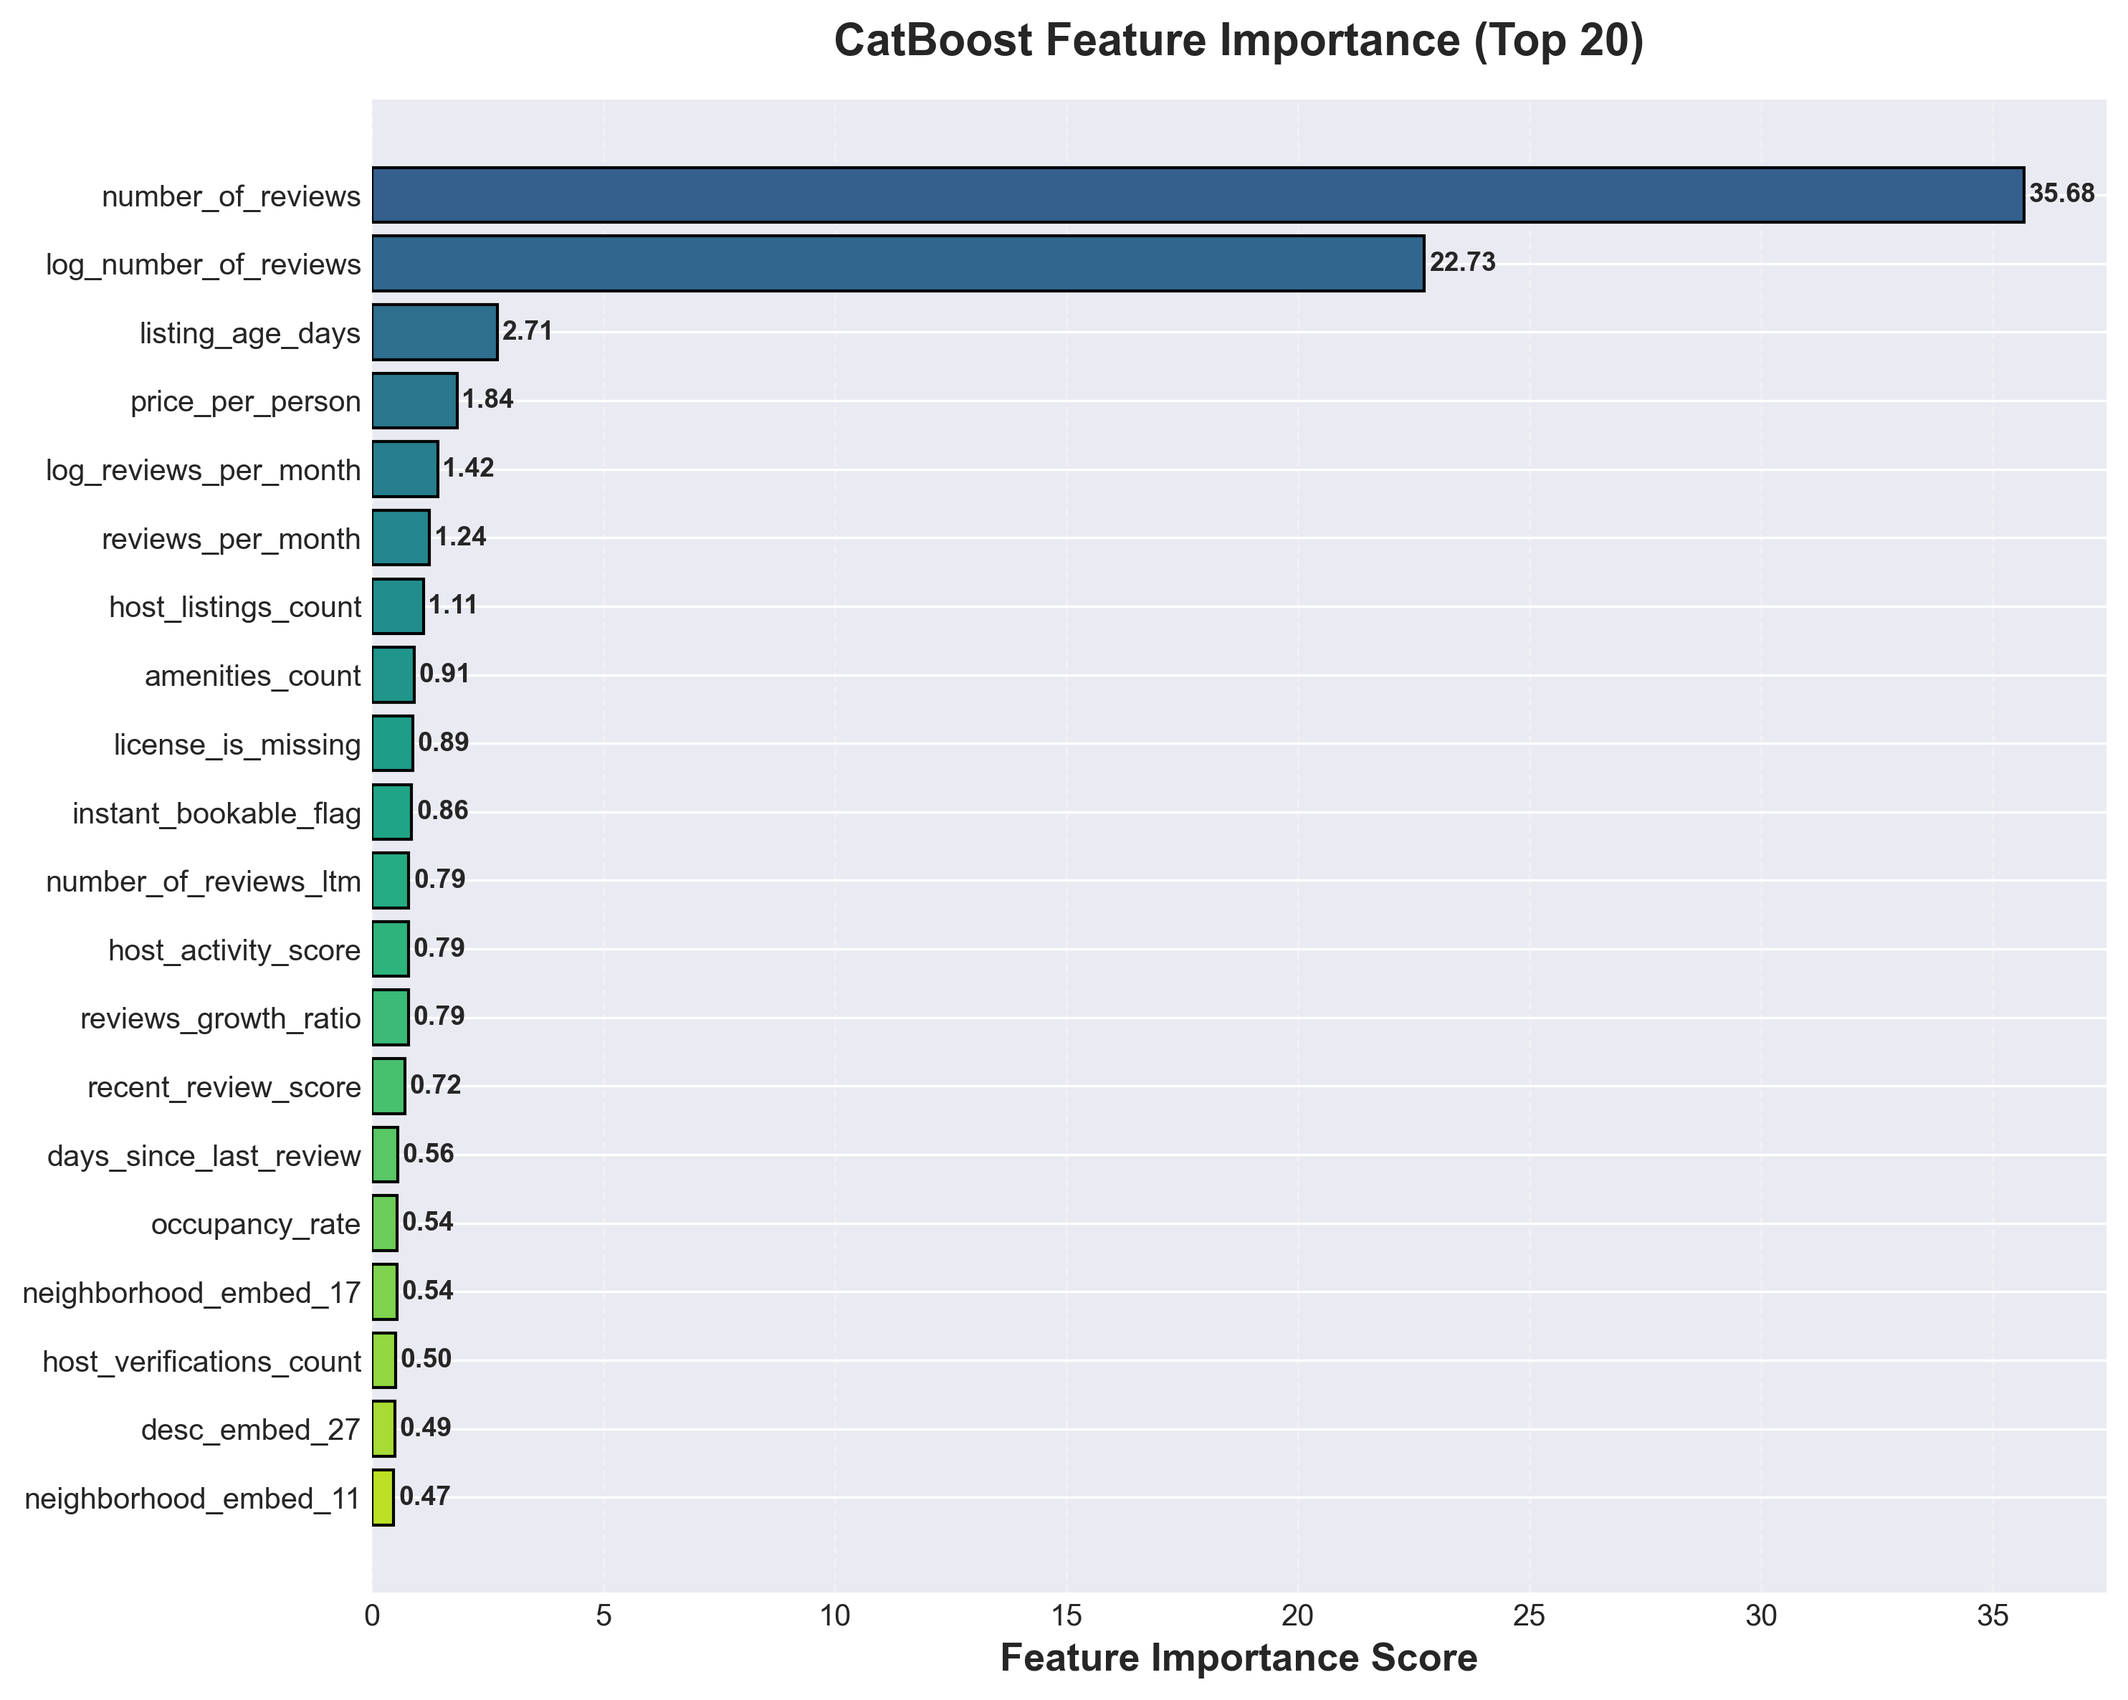
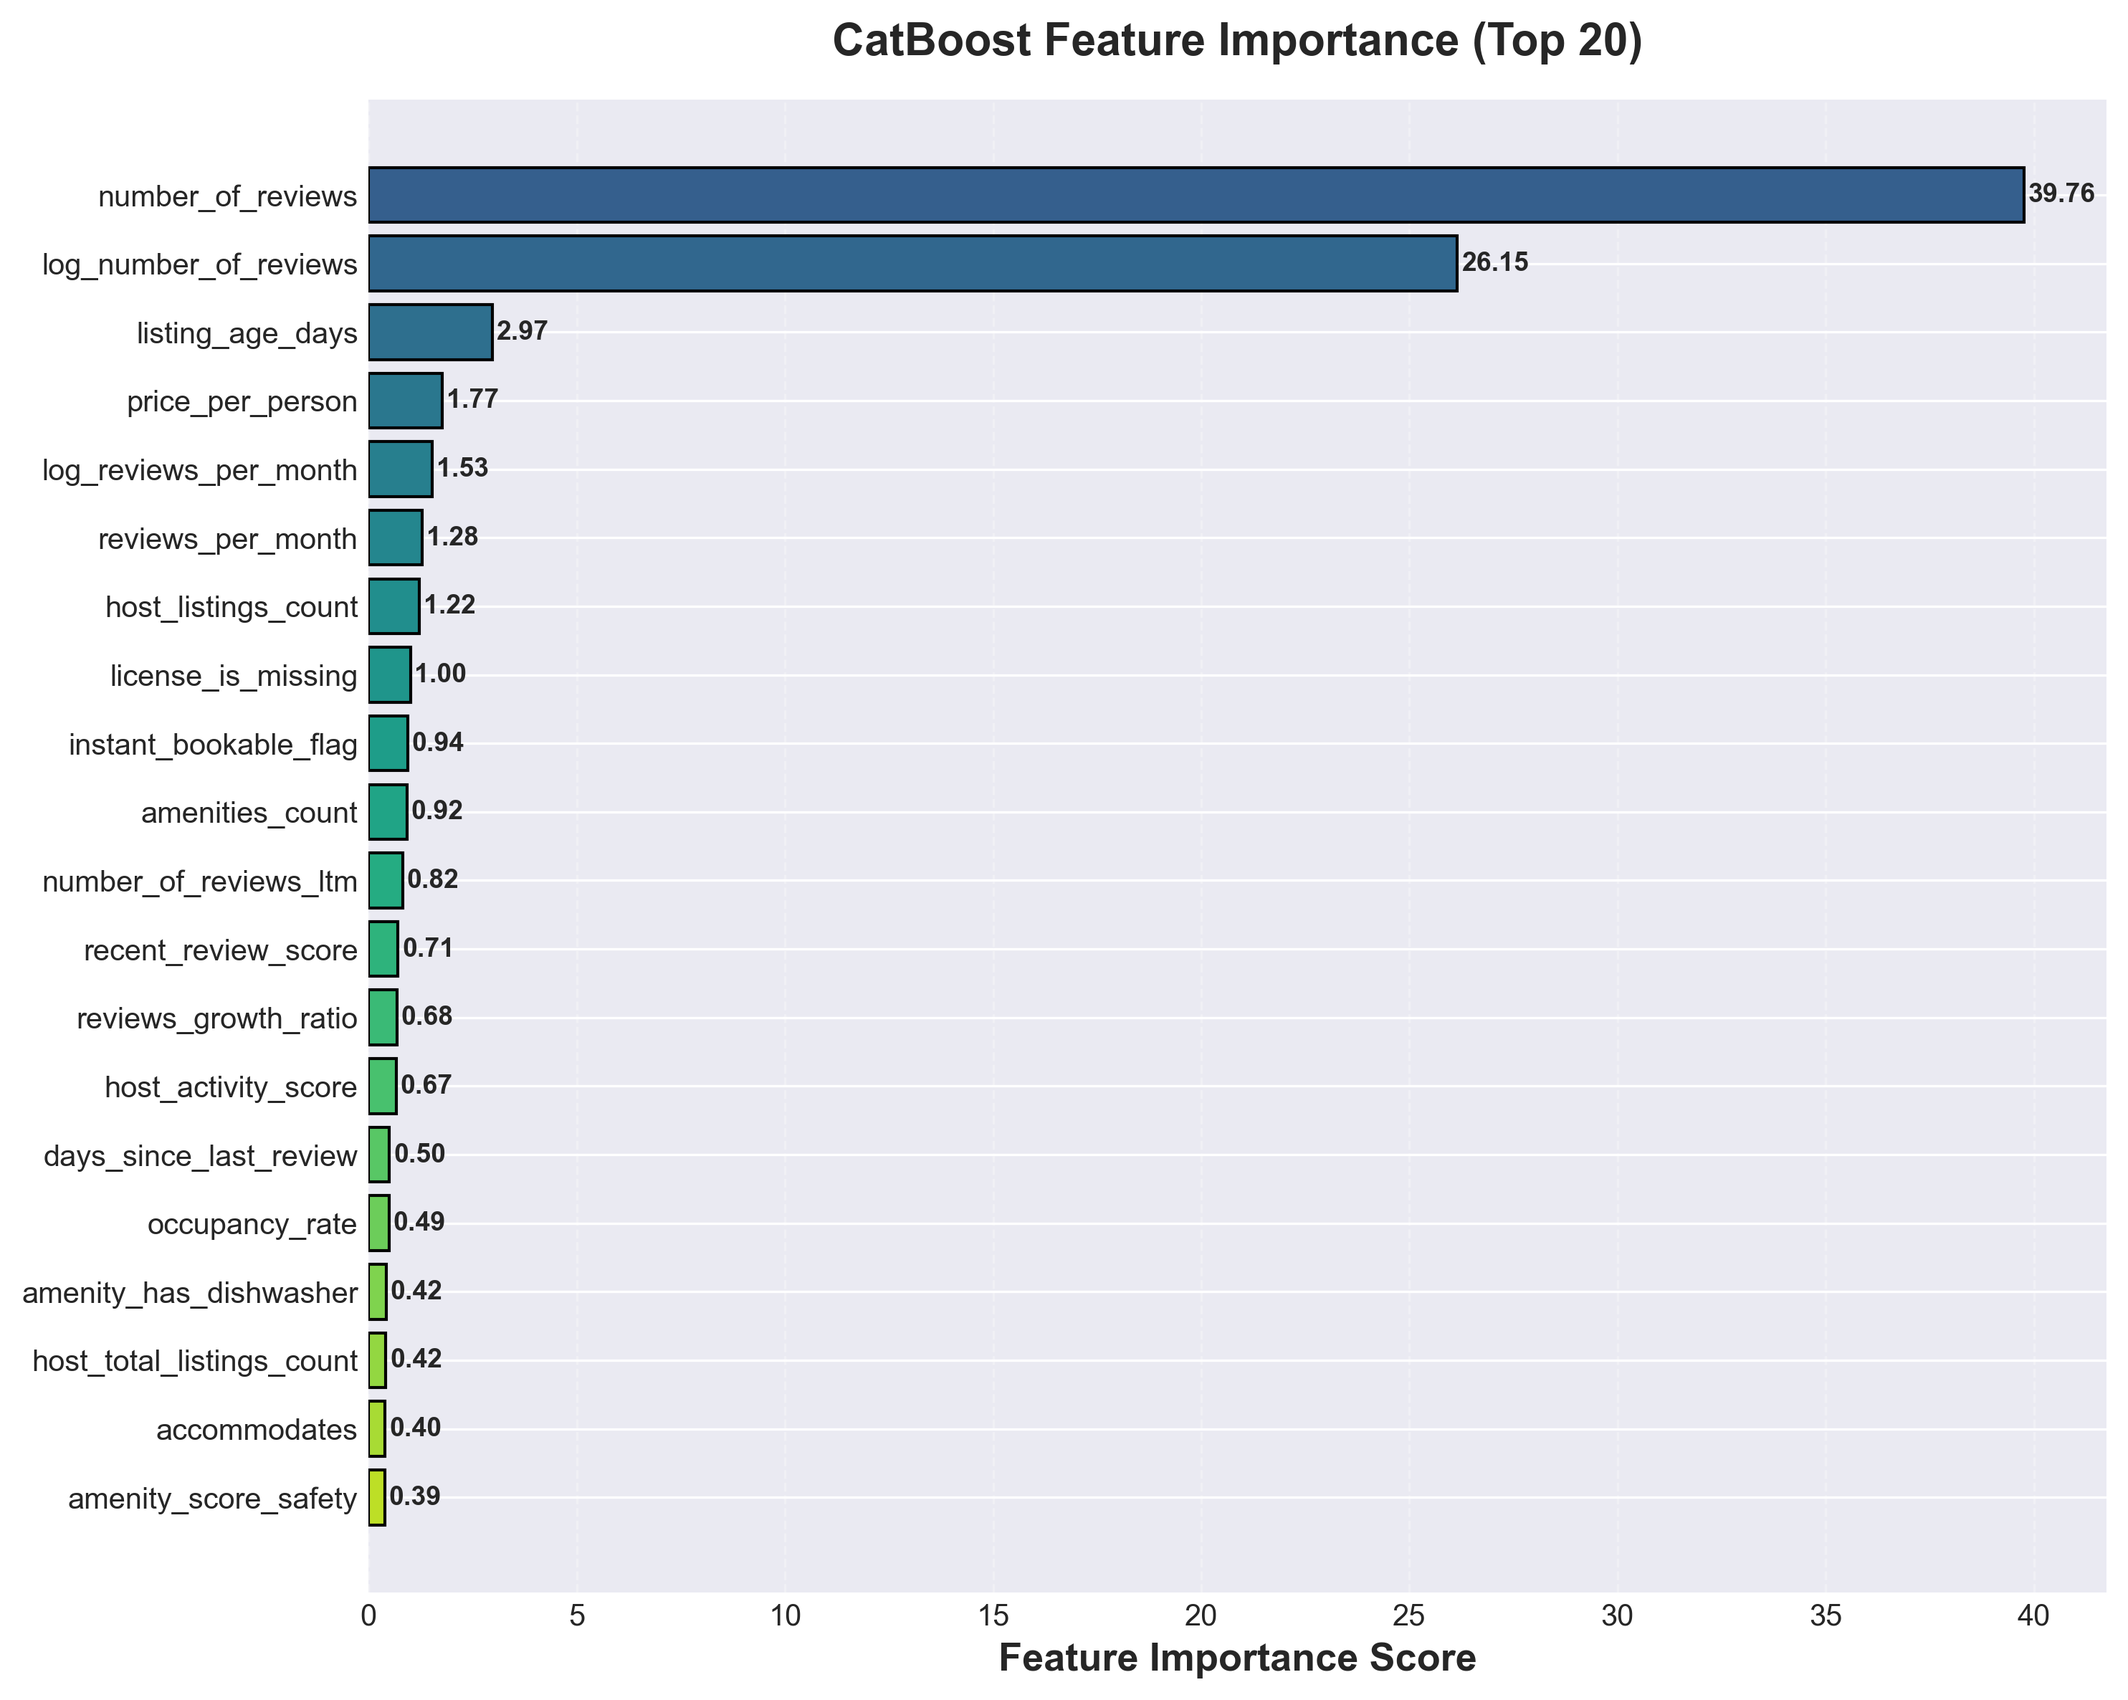
charts update

diff --git a/src/modeling_evaluation_for_report/5_generate_report_charts.py b/src/modeling_evaluation_for_report/5_generate_report_charts.py
@@ -17,7 +17,7 @@ import numpy as np
 import pandas as pd
 import matplotlib.pyplot as plt
 import seaborn as sns
-from sklearn.metrics import roc_curve, auc, confusion_matrix
+from sklearn.metrics import confusion_matrix
 import warnings
 warnings.filterwarnings('ignore')
 
@@ -43,6 +43,7 @@ spec.loader.exec_module(model_training_module)
 
 load_training_data = model_training_module.load_training_data
 prepare_binary_dataset = model_training_module.prepare_binary_dataset
+train_models = model_training_module.main
 
 
 def create_output_dir():
@@ -52,94 +53,24 @@ def create_output_dir():
     return output_dir
 
 
-def plot_roc_curves(results_df, output_dir):
+def plot_roc_curves(roc_data, output_dir):
     """
-    Plot beautified ROC curves for all models
+    Plot beautified ROC curves for all models using precomputed ROC data
     """
     print("\n[1/6] Generating ROC curves...")
 
-    # Load data
-    df, _ = load_training_data()
-    X_train, X_test, y_train, y_test, _ = prepare_binary_dataset(df)
+    if not roc_data:
+        print("  ⚠  Skipped: No ROC data available.")
+        return
 
-    # Train models and get probabilities
-    from sklearn.linear_model import LogisticRegression
-    from sklearn.ensemble import RandomForestClassifier
-    from sklearn.preprocessing import StandardScaler
-    from sklearn.neural_network import MLPClassifier
-
-    try:
-        import lightgbm as lgb
-        LIGHTGBM_AVAILABLE = True
-    except:
-        LIGHTGBM_AVAILABLE = False
-
-    try:
-        from catboost import CatBoostClassifier
-        CATBOOST_AVAILABLE = True
-    except:
-        CATBOOST_AVAILABLE = False
-
-    models_data = []
-
-    # Logistic Regression
-    lr_model = LogisticRegression(class_weight='balanced', max_iter=1000, random_state=42)
-    lr_pipe = StandardScaler()
-    X_train_scaled = lr_pipe.fit_transform(X_train)
-    X_test_scaled = lr_pipe.transform(X_test)
-    lr_model.fit(X_train_scaled, y_train)
-    lr_proba = lr_model.predict_proba(X_test_scaled)[:, 1]
-    models_data.append(('Logistic Regression', lr_proba))
-
-    # Random Forest
-    rf_model = RandomForestClassifier(n_estimators=600, max_depth=6, class_weight='balanced',
-                                       random_state=42, n_jobs=-1)
-    rf_model.fit(X_train, y_train)
-    rf_proba = rf_model.predict_proba(X_test)[:, 1]
-    models_data.append(('Random Forest', rf_proba))
-
-    # LightGBM
-    if LIGHTGBM_AVAILABLE:
-        scale_pos_weight = (y_train == 0).sum() / (y_train == 1).sum()
-        lgb_model = lgb.LGBMClassifier(n_estimators=600, max_depth=6, learning_rate=0.03,
-                                        scale_pos_weight=scale_pos_weight, random_state=42,
-                                        n_jobs=-1, verbose=-1)
-        lgb_model.fit(X_train, y_train)
-        lgb_proba = lgb_model.predict_proba(X_test)[:, 1]
-        models_data.append(('LightGBM', lgb_proba))
-
-    # CatBoost
-    if CATBOOST_AVAILABLE:
-        cat_model = CatBoostClassifier(iterations=600, depth=6, learning_rate=0.03,
-                                        l2_leaf_reg=3, auto_class_weights='Balanced',
-                                        random_seed=42, verbose=False)
-        cat_model.fit(X_train, y_train)
-        cat_proba = cat_model.predict_proba(X_test)[:, 1]
-        models_data.append(('CatBoost', cat_proba))
-
-    # MLP
-    scaler = StandardScaler()
-    X_train_scaled_mlp = scaler.fit_transform(X_train)
-    X_test_scaled_mlp = scaler.transform(X_test)
-    mlp_model = MLPClassifier(hidden_layer_sizes=(128, 64, 32), activation='relu',
-                               solver='adam', max_iter=300, early_stopping=True,
-                               random_state=42, verbose=False)
-    scale_pos_weight = (y_train == 0).sum() / (y_train == 1).sum()
-    sample_weights = np.where(y_train == 1, scale_pos_weight, 1.0)
-    mlp_model.fit(X_train_scaled_mlp, y_train, sample_weight=sample_weights)
-    mlp_proba = mlp_model.predict_proba(X_test_scaled_mlp)[:, 1]
-    models_data.append(('MLP', mlp_proba))
-
-    # Plot ROC curves
     fig, ax = plt.subplots(figsize=(10, 8))
 
     colors = ['#3498db', '#e74c3c', '#2ecc71', '#f39c12', '#9b59b6']
 
-    for idx, (name, y_proba) in enumerate(models_data):
-        fpr, tpr, _ = roc_curve(y_test, y_proba)
-        roc_auc = auc(fpr, tpr)
-        ax.plot(fpr, tpr, label=f'{name} (AUC = {roc_auc:.4f})',
-                linewidth=2.5, color=colors[idx])
+    for idx, (name, (fpr, tpr, auc_score)) in enumerate(roc_data.items()):
+        color = colors[idx % len(colors)]
+        ax.plot(fpr, tpr, label=f'{name} (AUC = {auc_score:.4f})',
+                linewidth=2.5, color=color)
 
     # Diagonal line
     ax.plot([0, 1], [0, 1], 'k--', linewidth=1.5, alpha=0.5, label='Random Guess (AUC = 0.5000)')
@@ -202,21 +133,16 @@ def plot_model_comparison(results_df, output_dir):
     print(f"  ✅ Saved: {save_path}")
 
 
-def plot_confusion_matrix_heatmap(output_dir):
+def plot_confusion_matrix_heatmap(model_name, model, X_test, y_test, output_dir):
     """
-    Plot confusion matrix heatmap for CatBoost
+    Plot confusion matrix heatmap for the best model
     """
     print("\n[3/6] Generating confusion matrix...")
 
-    # Load data and train CatBoost
-    df, _ = load_training_data()
-    X_train, X_test, y_train, y_test, _ = prepare_binary_dataset(df)
+    if model is None:
+        print("  ⚠  Skipped: Best model object not available.")
+        return
 
-    from catboost import CatBoostClassifier
-    model = CatBoostClassifier(iterations=600, depth=6, learning_rate=0.03,
-                                l2_leaf_reg=3, auto_class_weights='Balanced',
-                                random_seed=42, verbose=False)
-    model.fit(X_train, y_train)
     y_pred = model.predict(X_test)
 
     # Compute confusion matrix
@@ -233,14 +159,15 @@ def plot_confusion_matrix_heatmap(output_dir):
 
     ax.set_xlabel('Predicted Label', fontsize=14, fontweight='bold')
     ax.set_ylabel('True Label', fontsize=14, fontweight='bold')
-    ax.set_title('CatBoost Confusion Matrix', fontsize=16, fontweight='bold', pad=15)
+    ax.set_title(f'{model_name} Confusion Matrix', fontsize=16, fontweight='bold', pad=15)
     ax.set_xticklabels(['<5-star', '5-star'], fontsize=12)
     ax.set_yticklabels(['<5-star', '5-star'], fontsize=12, rotation=0)
 
     # Add performance text
     accuracy = (cm[0,0] + cm[1,1]) / cm.sum()
     text = f'Accuracy: {accuracy:.2%}\nTrue Positive: {cm[1,1]}\nFalse Positive: {cm[0,1]}\nFalse Negative: {cm[1,0]}\nTrue Negative: {cm[0,0]}'
-    ax.text(2.5, 0.5, text, fontsize=11, bbox=dict(boxstyle='round', facecolor='wheat', alpha=0.5))
+    ax.text(2.5, 0.5, text, fontsize=11,
+            bbox=dict(boxstyle='round', facecolor='wheat', alpha=0.5))
 
     plt.tight_layout()
     save_path = output_dir / "3_confusion_matrix.png"
@@ -249,24 +176,24 @@ def plot_confusion_matrix_heatmap(output_dir):
     print(f"  ✅ Saved: {save_path}")
 
 
-def plot_feature_importance(output_dir):
+def plot_feature_importance(model_name, model, feature_names, output_dir):
     """
-    Plot feature importance for CatBoost
+    Plot feature importance for the best model (if supported)
     """
     print("\n[4/6] Generating feature importance chart...")
 
-    # Load data and train CatBoost
-    df, _ = load_training_data()
-    X_train, X_test, y_train, y_test, feature_names = prepare_binary_dataset(df)
-
-    from catboost import CatBoostClassifier
-    model = CatBoostClassifier(iterations=600, depth=6, learning_rate=0.03,
-                                l2_leaf_reg=3, auto_class_weights='Balanced',
-                                random_seed=42, verbose=False)
-    model.fit(X_train, y_train)
+    if model is None:
+        print("  ⚠  Skipped: Best model object not available.")
+        return
 
     # Get feature importance
-    importance = model.get_feature_importance()
+    if hasattr(model, "get_feature_importance"):
+        importance = model.get_feature_importance()
+    elif hasattr(model, "feature_importances_"):
+        importance = model.feature_importances_
+    else:
+        print(f"  ⚠  Skipped: {model_name} does not expose feature importance.")
+        return
     feature_importance_df = pd.DataFrame({
         'feature': feature_names,
         'importance': importance
@@ -287,7 +214,7 @@ def plot_feature_importance(output_dir):
     ax.set_yticks(range(len(feature_importance_df)))
     ax.set_yticklabels(feature_importance_df['feature'], fontsize=10)
     ax.set_xlabel('Feature Importance Score', fontsize=13, fontweight='bold')
-    ax.set_title('CatBoost Feature Importance (Top 20)', fontsize=15, fontweight='bold', pad=15)
+    ax.set_title(f'{model_name} Feature Importance (Top 20)', fontsize=15, fontweight='bold', pad=15)
     ax.grid(axis='x', alpha=0.3, linestyle='--')
     ax.invert_yaxis()
 
@@ -462,12 +389,18 @@ def plot_bias_variance_tradeoff(results_df, output_dir):
         'MLP\n(Highest)'
     ], fontsize=10)
     ax.grid(True, alpha=0.3, linestyle='--')
-    ax.legend(loc='upper left', fontsize=11, frameon=True, shadow=True)
+    ax.legend(loc='lower right', fontsize=11, frameon=True, shadow=True)
+
+    # Extend y-axis to provide extra headroom for zone annotations
+    ymin, ymax = ax.get_ylim()
+    ax.set_ylim(ymin, ymax + (ymax - ymin) * 0.12)
+    ymin_new, ymax_new = ax.get_ylim()
+    zone_label_y = ymax_new - (ymax_new - ymin_new) * 0.05
 
     # Add zone annotations
-    ax.text(1, ax.get_ylim()[1] * 0.95, 'Underfitting\n(High Bias)',
+    ax.text(1, zone_label_y, 'Underfitting\n(High Bias)',
            ha='center', fontsize=10, color='blue', alpha=0.7, fontweight='bold')
-    ax.text(5, ax.get_ylim()[1] * 0.95, 'Overfitting Risk\n(High Variance)',
+    ax.text(5, zone_label_y, 'Overfitting Risk\n(High Variance)',
            ha='center', fontsize=10, color='red', alpha=0.7, fontweight='bold')
 
     plt.tight_layout()
@@ -530,7 +463,7 @@ def plot_catboost_fitting_graph(output_dir):
     print("\n[9/9] Generating CatBoost fitting graph...")
 
     # Load actual test results
-    model_dir = PROJECT_ROOT / "charts" / "model"
+    model_dir = output_dir
     results_path = model_dir / "catboost_iteration_comparison.csv"
 
     if not results_path.exists():
@@ -665,15 +598,19 @@ def main():
     output_dir = create_output_dir()
     print(f"\n输出目录: {output_dir}")
 
-    # Load results
-    results_path = PROJECT_ROOT / "charts" / "model" / "model_comparison_results.csv"
-    results_df = pd.read_csv(results_path)
+    # Train models once and reuse outputs
+    results_df, roc_data, best_model = train_models()
+
+    # Prepare evaluation datasets (same split as training script)
+    df, _ = load_training_data()
+    _, X_test, _, y_test, feature_names = prepare_binary_dataset(df)
+    best_model_name = results_df.iloc[0]['model']
 
     # Generate all charts (9 total)
-    plot_roc_curves(results_df, output_dir)
+    plot_roc_curves(roc_data, output_dir)
     plot_model_comparison(results_df, output_dir)
-    plot_confusion_matrix_heatmap(output_dir)
-    plot_feature_importance(output_dir)
+    plot_confusion_matrix_heatmap(best_model_name, best_model, X_test, y_test, output_dir)
+    plot_feature_importance(best_model_name, best_model, feature_names, output_dir)
     plot_precision_recall_tradeoff(results_df, output_dir)
     plot_training_time_vs_performance(results_df, output_dir)
     plot_bias_variance_tradeoff(results_df, output_dir)

diff --git a/src/modeling_evaluation_for_report/2_model_training.py b/src/modeling_evaluation_for_report/2_model_training.py
@@ -68,6 +68,7 @@ CURRENT_DIR = Path(__file__).resolve().parent
 PROJECT_ROOT = CURRENT_DIR.parents[1]
 DATA_DIR = PROJECT_ROOT / "data"
 CHARTS_DIR = PROJECT_ROOT / "charts"
+MODEL_OUTPUT_DIR = CHARTS_DIR / "charts_for_report" / "modeling"
 
 # Plotting setup
 plt.style.use('seaborn-v0_8-darkgrid')
@@ -98,7 +99,9 @@ def load_training_data() -> tuple[pd.DataFrame, Path]:
     df = pd.read_csv(train_path)
     print(f"✅ Loaded: {len(df):,} rows × {len(df.columns)} columns")
 
-    return df, CHARTS_DIR / "model"
+    MODEL_OUTPUT_DIR.mkdir(parents=True, exist_ok=True)
+
+    return df, MODEL_OUTPUT_DIR
 
 
 # ==================== DATA PREPARATION ====================

diff --git a/src/modeling_evaluation_for_report/3_catboost_hyperparameter_tuning.py b/src/modeling_evaluation_for_report/3_catboost_hyperparameter_tuning.py
@@ -29,7 +29,7 @@ import time
 # ==================== PROJECT PATHS ====================
 PROJECT_ROOT = Path(__file__).resolve().parent.parent.parent
 DATA_DIR = PROJECT_ROOT / "data" / "processed"
-MODEL_DIR = PROJECT_ROOT / "charts" / "model"
+MODEL_DIR = PROJECT_ROOT / "charts" / "charts_for_report" / "modeling"
 MODEL_DIR.mkdir(parents=True, exist_ok=True)
 
 
